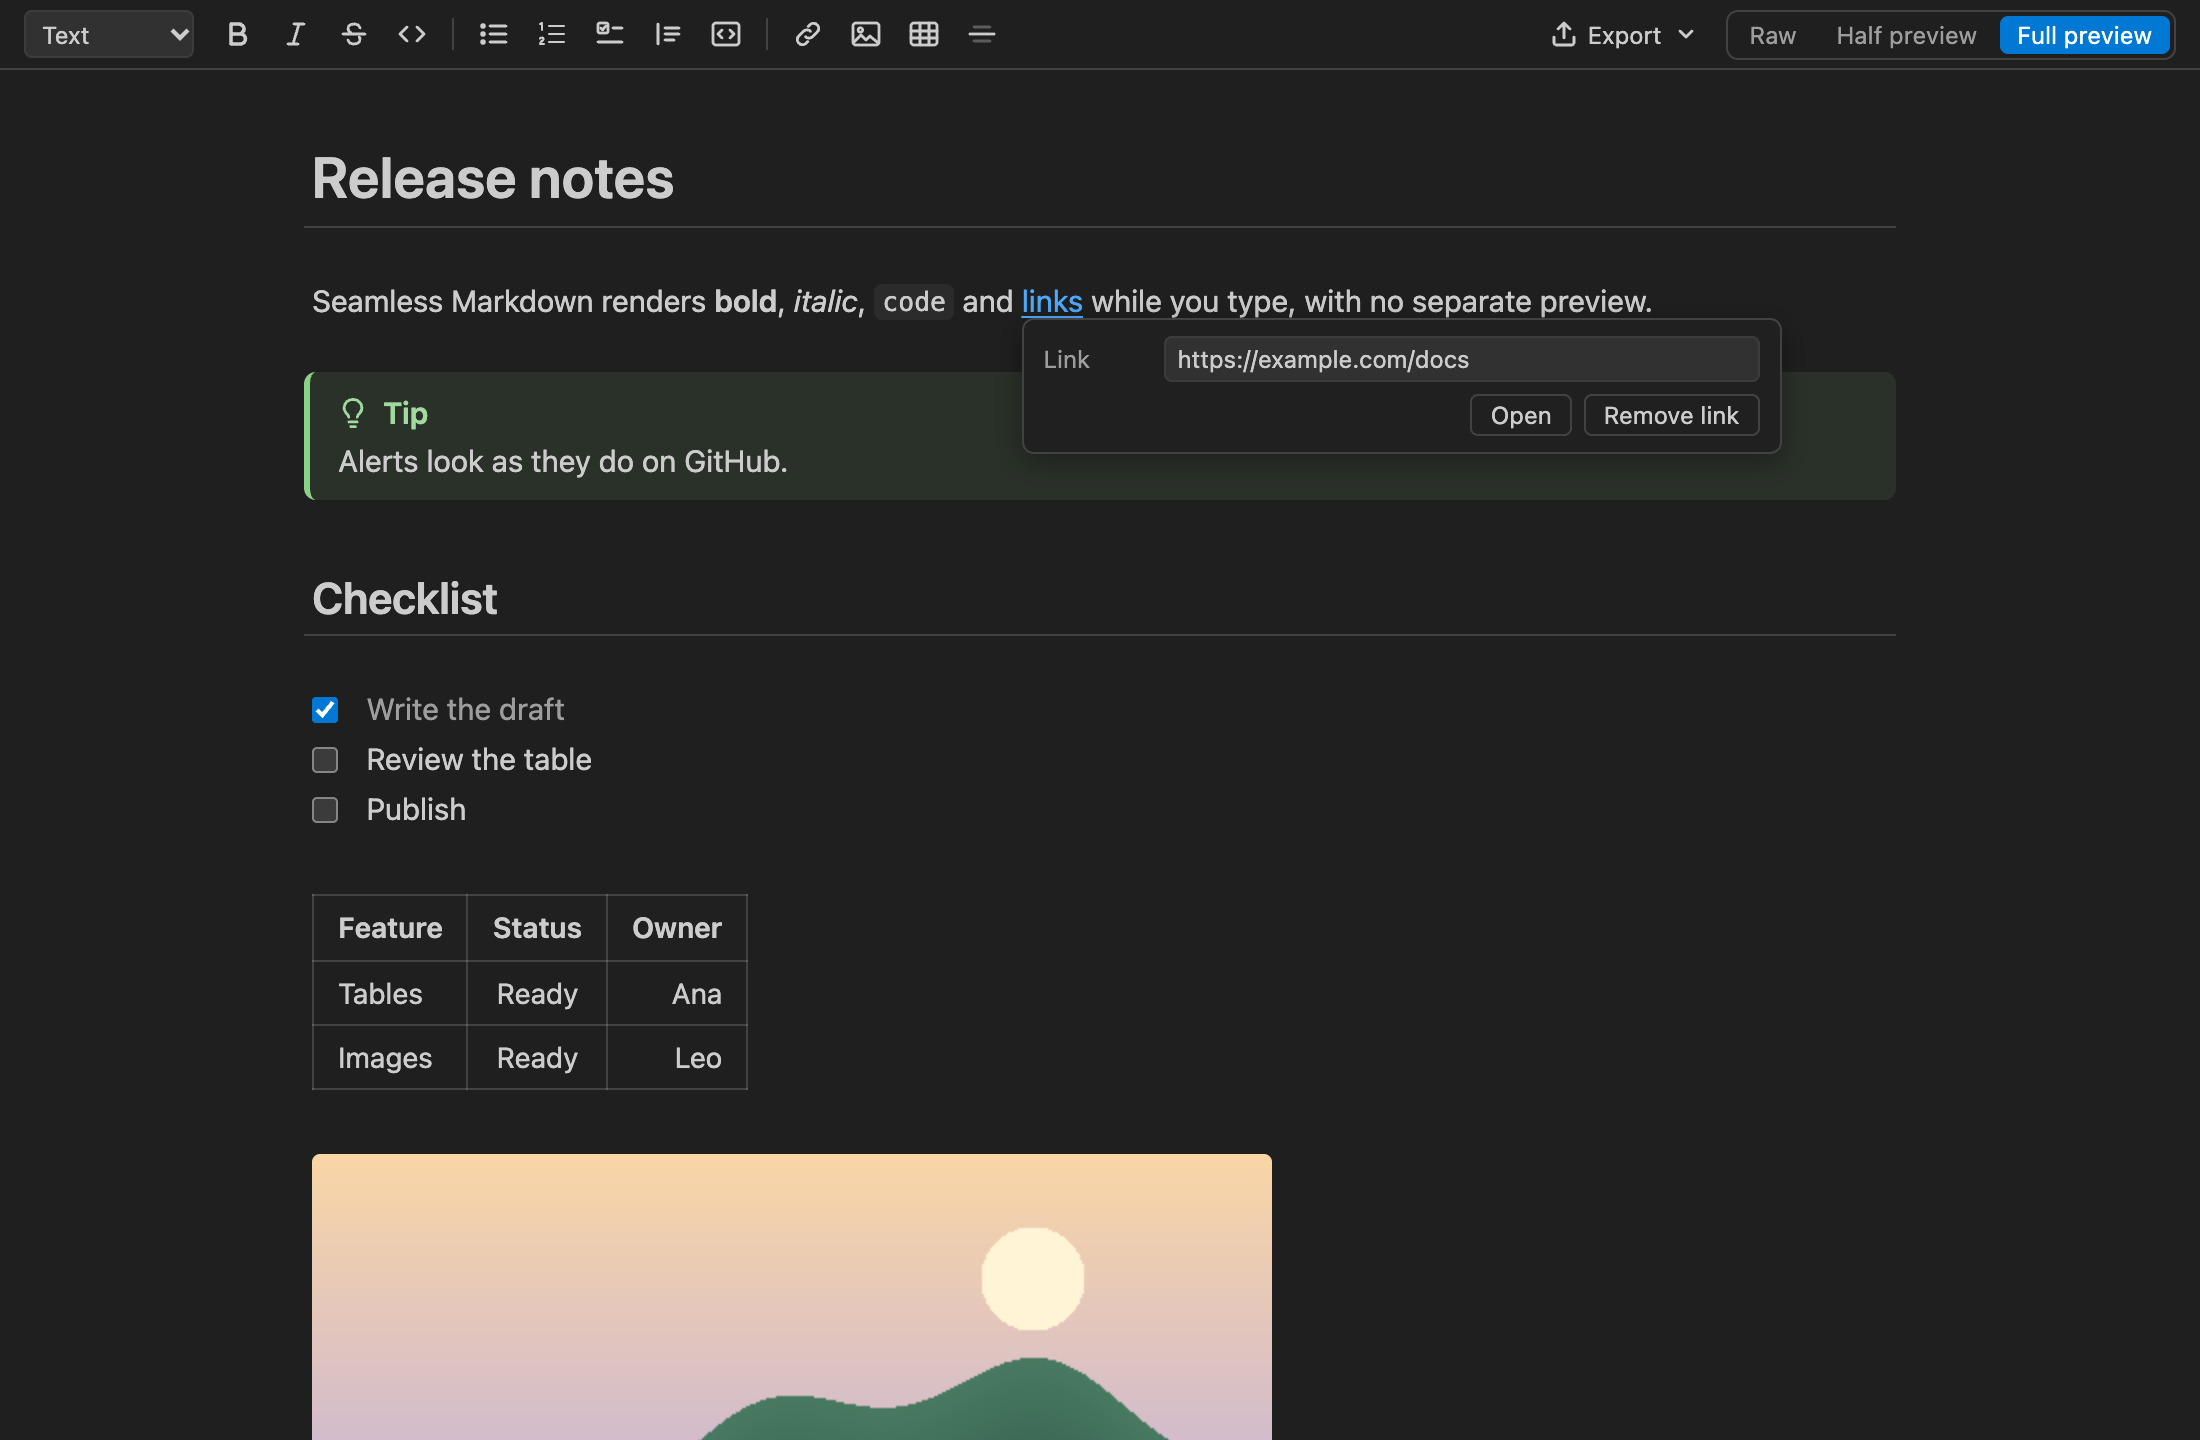
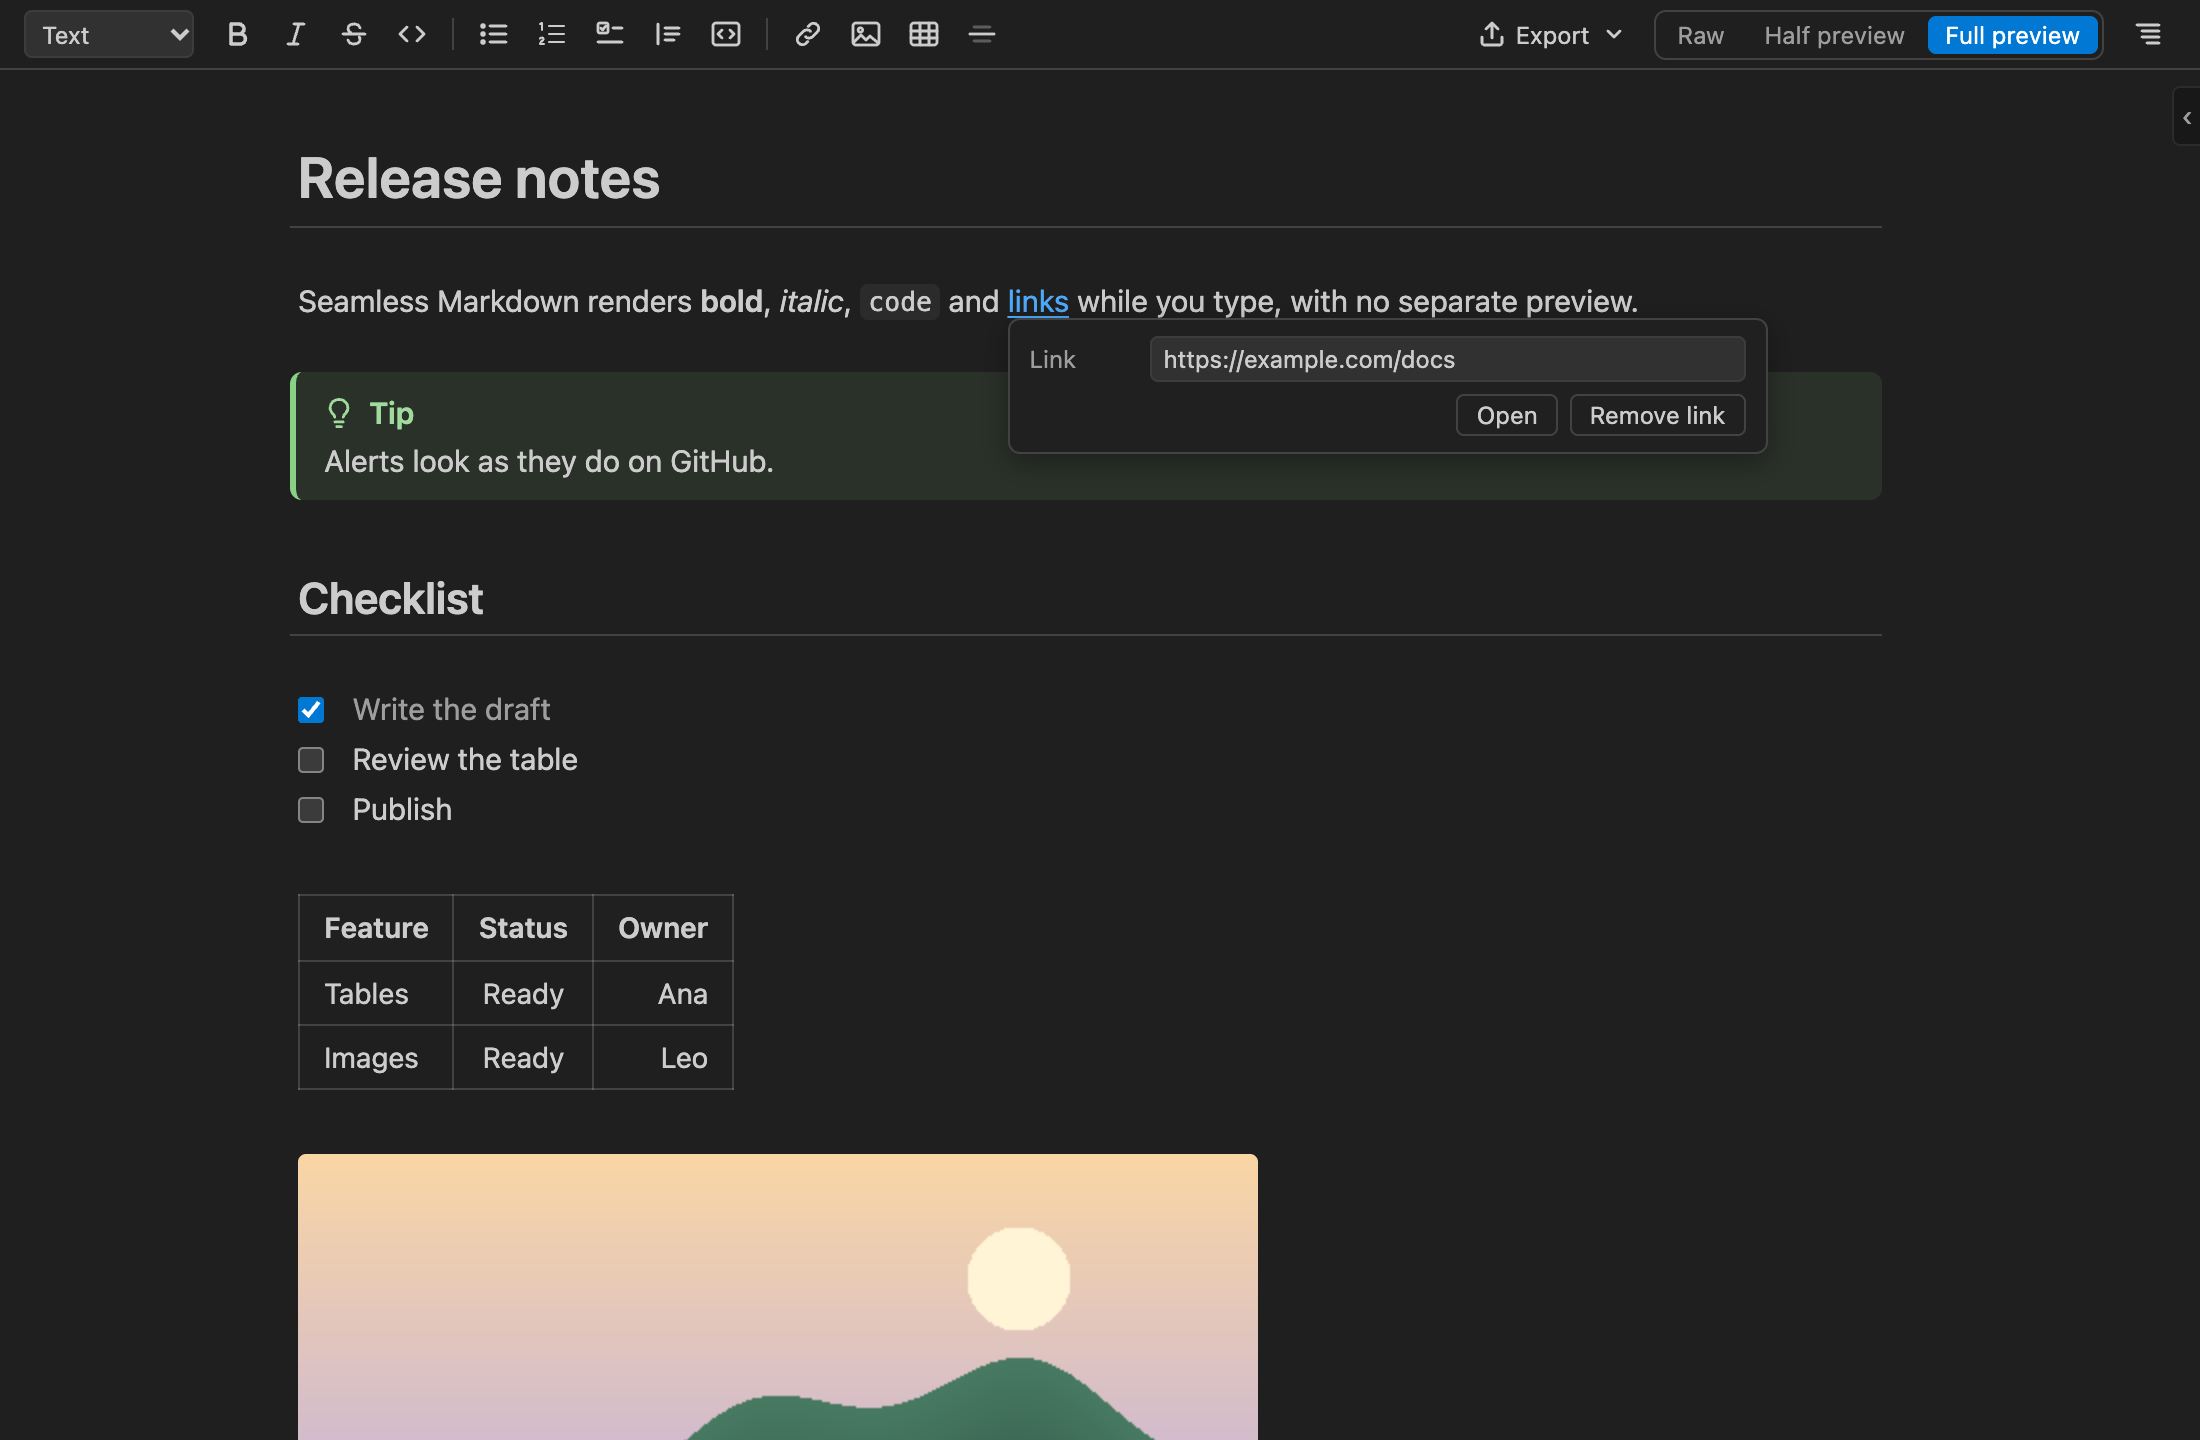
Release 0.6.0: outline panel, GitHub alerts, theme colours; toolbar wraps when narrow

diff --git a/src/webview/styles.css b/src/webview/styles.css
@@ -121,14 +121,16 @@ body {
   padding: 4px 12px;
   border-bottom: 1px solid var(--mdl-border);
   font-size: 12px;
-  overflow-x: auto;
-  scrollbar-width: none;
+  /* In a narrow editor the buttons wrap onto a second row instead of sliding under each other. */
+  flex-wrap: wrap;
+  row-gap: 2px;
 }
 .mdl-toolbar-buttons {
   display: flex;
+  flex-wrap: wrap;
   align-items: center;
   gap: 1px;
-  flex: 1;
+  flex: 1 1 auto;
   min-width: 0;
 }
 .mdl-toolbar button {

diff --git a/README.md b/README.md
@@ -6,7 +6,7 @@
 
 - **One editor, not two.** The document renders as you type. Click any element to edit it.
 - **Your file stays yours.** It is always plain Markdown, and text you did not touch is never rewritten, so diffs stay clean.
-- **It behaves like VS Code.** Undo, save, split editors, source control and your colour theme all work as they do for any text file.
+- **It behaves like VS Code.** Undo, save, split editors and source control work as they do for any text file, and the colours follow your theme.
 
 ## Get started
 
@@ -60,7 +60,8 @@ Switch with the buttons at the top right or `Alt+M`. Your place is kept, and eac
 - `Cmd`/`Ctrl`+click follows web links, other Markdown files and `#heading` links.
 - Broken links are underlined and listed in the Problems panel: missing files, missing headings and missing reference definitions. Nothing is fetched from the network.
 - A table of contents that updates itself on save. Insert it with `/toc`.
-- Footnotes, GitHub alerts (`> [!NOTE]`), front matter and a **Markdown Outline** panel in the Explorer.
+- An **Outline** panel on the right of the editor that follows your position, with a heading filter. It starts collapsed; open it with the toolbar button or `Alt+O`.
+- GitHub alerts (`> [!NOTE]`, `[!TIP]`, `[!WARNING]` and the rest) as tinted boxes with icons, plus footnotes and front matter.
 - Optional wiki links (`[[Note]]`) with a Backlinks panel. Off by default.
 
 ### Export and share
@@ -95,6 +96,7 @@ Exported files contain no scripts and load nothing from the network.
 | Tick or untick a task | `Alt+C` |
 | Heading level up / down | `Ctrl+Shift+]` / `Ctrl+Shift+[` |
 | Go to heading | `Mod+Shift+O` |
+| Show or hide the outline | `Alt+O` |
 | Fold / unfold a section | `Mod+Alt+[` / `Mod+Alt+]` |
 | Find / find and replace | `Mod+F` / `Mod+H`, then `Enter` and `Shift+Enter` between matches |
 | Indent / outdent a list item | `Tab` / `Shift+Tab` |
@@ -139,7 +141,7 @@ All settings start with `seamlessMarkdown.`
 - **Resized images become HTML.** Markdown has no syntax for a size, so a resized image is written as an `<img>` tag with a `width`.
 - **Dropping files.** Hold `Shift` while dropping a file from the Explorer, as VS Code requires.
 - **Search across files.** Results in VS Code's Search panel open the file, but VS Code does not yet tell custom editors where the match is, so the editor cannot jump to it or highlight it. Press `Mod+F` in the file to find it. VS Code is working on the missing piece; this will follow once it is available to extensions.
-- **Outline and breadcrumbs.** VS Code does not offer its own Outline view or breadcrumb symbols to custom editors. Use the Markdown Outline panel and **Go to Heading** instead.
+- **Outline and breadcrumbs.** VS Code does not offer its own Outline view or breadcrumb symbols to custom editors. Use the editor's Outline panel and **Go to Heading** instead.
 - **HTML in a document** is shown as source. An `<img>` tag is shown as the picture.
 - **Not drawn:** diagram languages other than Mermaid, and tables that are indented or inside a list or quote.
 - **No side-by-side view.** The point of the editor is that you do not need one.

diff --git a/CHANGELOG.md b/CHANGELOG.md
@@ -1,5 +1,13 @@
 # Changelog
 
+## 0.6.0
+
+- Outline panel inside the editor: docked on the right, collapsed by default, and remembered once you open it. It highlights where you are, has a heading filter, and jumps on click. Toggle it with the toolbar button or `Alt+O`.
+- GitHub-style alerts: `> [!NOTE]`, `[!TIP]`, `[!IMPORTANT]`, `[!WARNING]` and `[!CAUTION]` render as tinted boxes with GitHub's icon and a coloured title, in the editor, in exports and in emails.
+- Colours follow your VS Code theme: code highlighting, alerts and high-contrast outlines now come from the theme wherever VS Code shares them.
+- The toolbar wraps onto a second row in narrow editors instead of overlapping.
+- Fixed: code inside a block quote showed `> ` at the start of its lines.
+
 ## 0.5.1
 
 - Selected text now uses the normal system highlight, so a selection is always visible.
